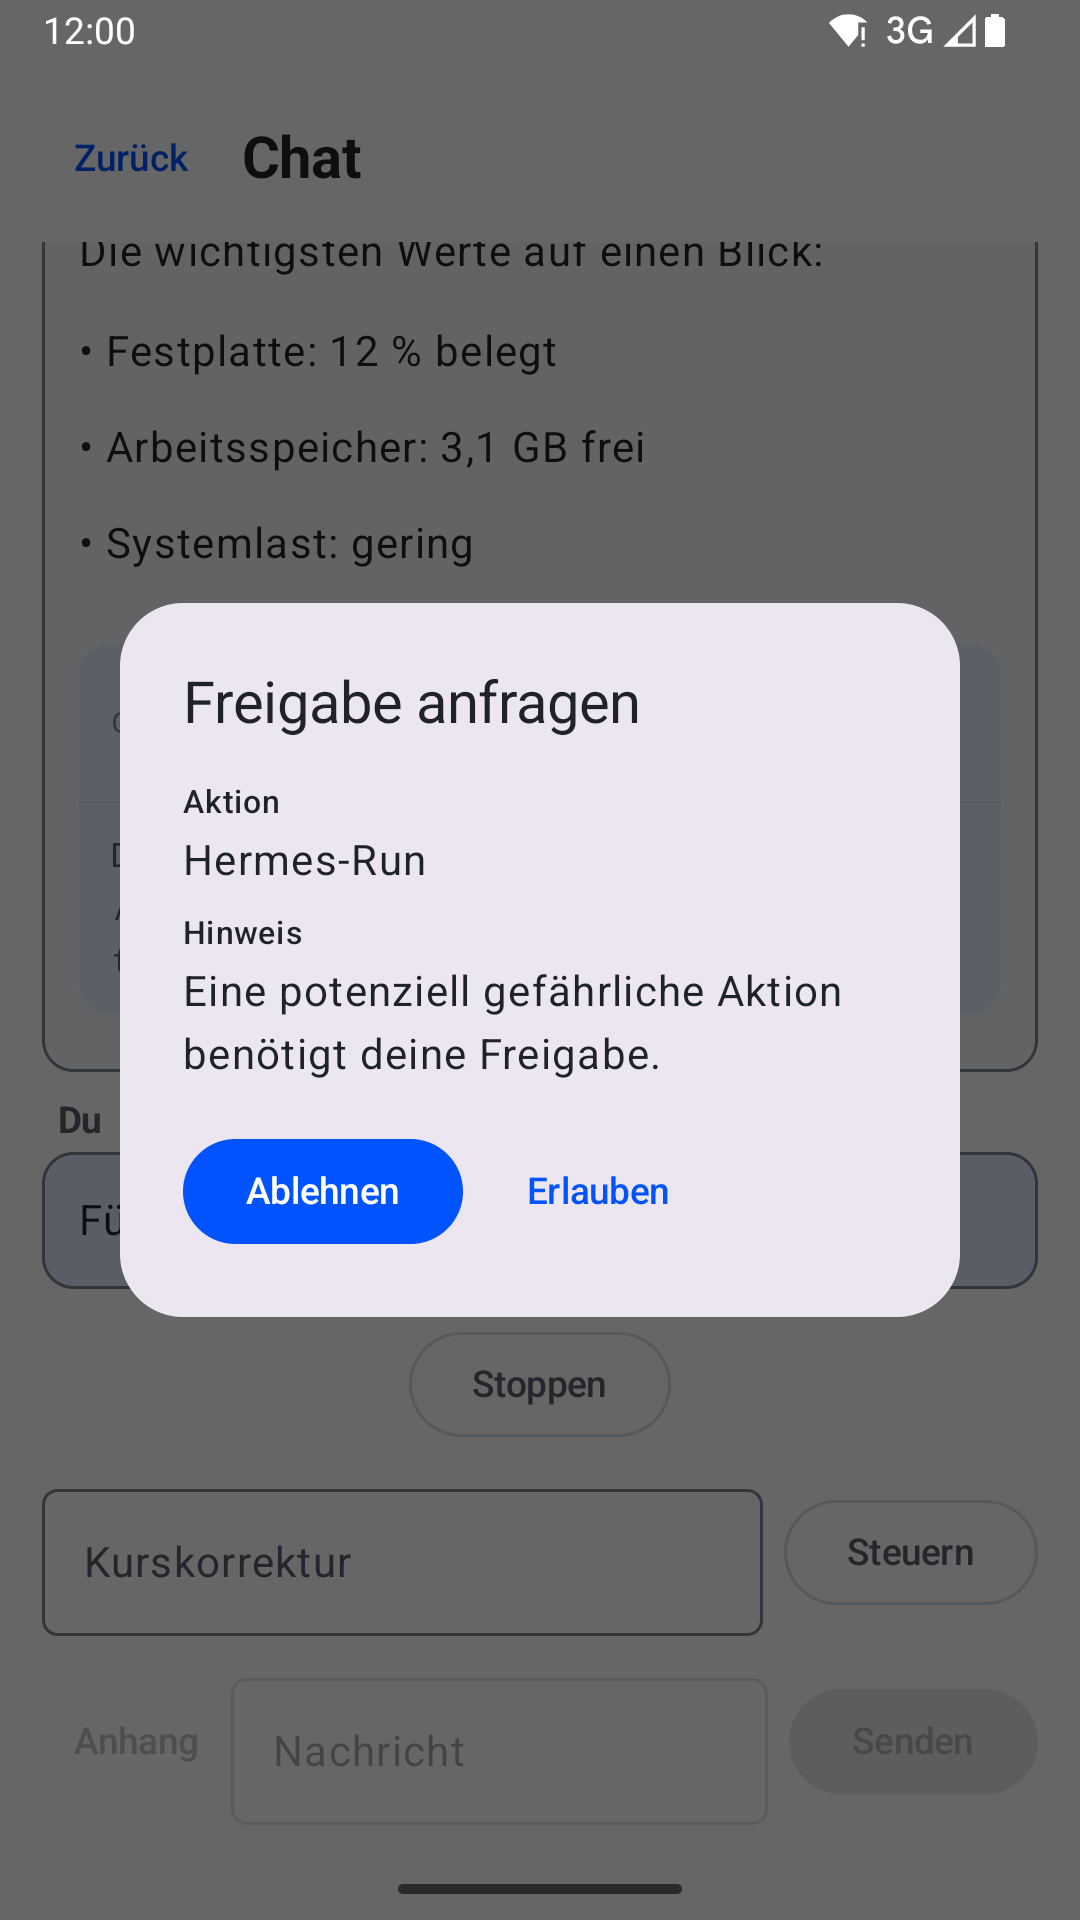
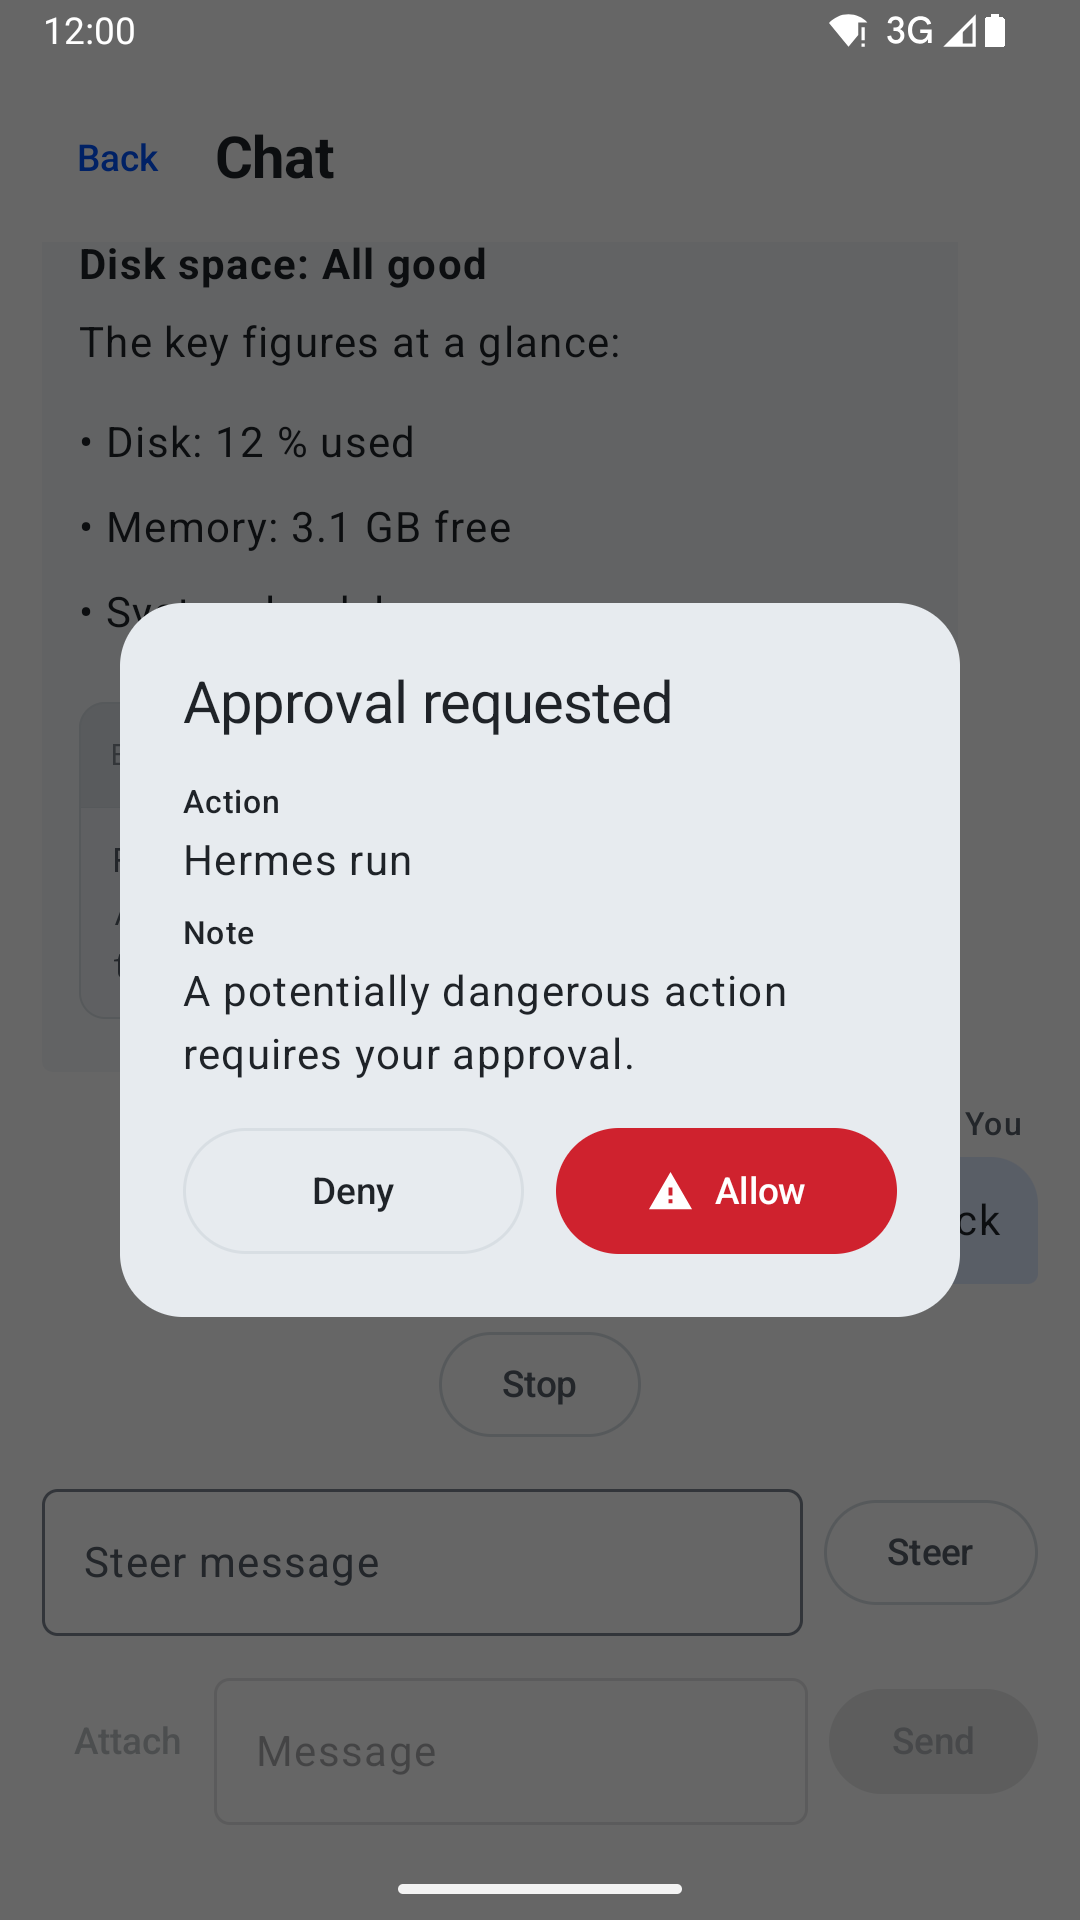
docs: refresh the README screenshots for the redesigned UI
- All six images re-captured with scripts/readme-screenshots.sh: chat bubbles, compact code block, risk-marked Allow, grouped session list with source icons and search, onboarding with Connect and the mode info button
- The sample data is English now, matching the English UI (it was German content in an English interface); the sample sessions carry sources so the source icons show
- ReadmeScreenshotsTest: one explicit frame before each capture (a single idle pass once captured a blank onboarding window) and the status bar takes the theme's icon colour, as MainActivity does (dark icons on the dark chat before)

diff --git a/app/src/androidTest/java/io/github/excludebarrier/orsikrelay/ReadmeScreenshotsTest.kt b/app/src/androidTest/java/io/github/excludebarrier/orsikrelay/ReadmeScreenshotsTest.kt
@@ -120,7 +120,7 @@ class ReadmeScreenshotsTest {
                 profileId = PROFILE_ID
             )
         }
-        waitForText("Backup prüfen")
+        waitForText("Check backup")
         capture("sessions")
     }
 
@@ -132,7 +132,7 @@ class ReadmeScreenshotsTest {
             OnboardingScreen(
                 onValidDraft = { },
                 onValidPairing = { _, _, _ -> },
-                initialProfileName = "Heimserver",
+                initialProfileName = "Home server",
                 initialBaseUrl = "https://hermes.example.ts.net:8443",
                 initialPairingCode = PAIRING_CODE
             )
@@ -211,6 +211,10 @@ class ReadmeScreenshotsTest {
         composeRule.setContent {
             // HermesTheme must wrap HermesAppSurface (as in production
             // MainActivity), so the app surface reads the themed background.
+            // SystemBarAppearance gives the status bar the theme's icon
+            // colour, as MainActivity does (dark icons on a dark bar
+            // otherwise).
+            SystemBarAppearance(dark)
             HermesTheme(darkTheme = dark) {
                 HermesAppSurface {
                     content()
@@ -226,8 +230,11 @@ class ReadmeScreenshotsTest {
 
     private fun capture(name: String) {
         composeRule.waitForIdle()
-        // One extra idle round-trip so the surface is fully composited before
-        // the frame grab.
+        // Advance one explicit frame and do two more idle round-trips so the
+        // surface is fully composited before the frame grab (a single idle
+        // pass sometimes captured a still blank window).
+        composeRule.mainClock.advanceTimeByFrame()
+        composeRule.waitForIdle()
         composeRule.waitForIdle()
         val screen = InstrumentationRegistry.getInstrumentation().uiAutomation.takeScreenshot()
             ?: throw AssertionError("takeScreenshot() returned null for '$name'")
@@ -302,11 +309,11 @@ class ReadmeScreenshotsTest {
     private fun sessionFixtures(): List<HermesSession> {
         val now = System.currentTimeMillis() / 1_000
         return listOf(
-            HermesSession("fixture-backup", "Backup prüfen", null, now - 300, 12, pinned = false),
-            HermesSession("fixture-plan", "Wochenplanung", null, now - 7_200, 34, pinned = true),
-            HermesSession("fixture-docker", "Docker-Updates", null, now - 86_400, 8, pinned = false),
-            HermesSession("fixture-rezept", "Rezept für Sonntag", null, now - 3 * 86_400, 21, pinned = false),
-            HermesSession("fixture-wartung", "Server-Wartung", null, now - 7 * 86_400, 5, pinned = false)
+            HermesSession("fixture-backup", "Check backup", "cli", now - 300, 12, pinned = false),
+            HermesSession("fixture-plan", "Weekly planning", "telegram", now - 7_200, 34, pinned = true),
+            HermesSession("fixture-docker", "Docker updates", "cli", now - 86_400, 8, pinned = false),
+            HermesSession("fixture-rezept", "Sunday recipe", "telegram", now - 3 * 86_400, 21, pinned = false),
+            HermesSession("fixture-wartung", "Nightly maintenance", "cron", now - 7 * 86_400, 5, pinned = false)
         )
     }
 
@@ -365,25 +372,25 @@ class ReadmeScreenshotsTest {
         const val PROFILE_ID = "fixture-profile-id"
         const val SESSION_ID = "fixture-session-id"
 
-        const val USER_QUESTION = "Wie viel Speicher ist auf dem Server noch frei?"
-        const val ASSISTANT_HEADING = "Alles im grünen Bereich"
+        const val USER_QUESTION = "How much disk space is left on the server?"
+        const val ASSISTANT_HEADING = "All good"
         const val ASSISTANT_ANSWER = (
-            "**Speicherplatz: Alles im grünen Bereich**\n\n" +
-                "Die wichtigsten Werte auf einen Blick:\n\n" +
-                "- Festplatte: 12 % belegt\n" +
-                "- Arbeitsspeicher: 3,1 GB frei\n" +
-                "- Systemlast: gering\n\n" +
-                "```\n" +
-                "Dateisystem   Größe  Belegt  Frei\n" +
-                "/dev/vda1       50G    6,2G    44G\n" +
-                "tmpfs          3,9G      0G   3,9G\n" +
+            "**Disk space: All good**\n\n" +
+                "The key figures at a glance:\n\n" +
+                "- Disk: 12 % used\n" +
+                "- Memory: 3.1 GB free\n" +
+                "- System load: low\n\n" +
+                "```bash\n" +
+                "Filesystem   Size  Used  Avail\n" +
+                "/dev/vda1     50G  6.2G    44G\n" +
+                "tmpfs        3.9G     0   3.9G\n" +
                 "```"
         )
 
         // Synthetic pairing code from the closed pairing alphabet (24 chars).
         const val PAIRING_CODE = "AB12CD34EF56GH78JK9MNPQR"
 
-        const val APPROVAL_PROMPT = "Führe den Sicherheits-Check aus"
+        const val APPROVAL_PROMPT = "Run the security check"
         val APPROVAL_TITLE: String by lazy { InstrumentationRegistry.getInstrumentation().targetContext.getString(R.string.approval_title) }
         const val APPROVAL_RUN_ID = "run_0123456789abcdef0123456789abcdef"
         val APPROVAL_REQUEST = ApprovalRequest(
